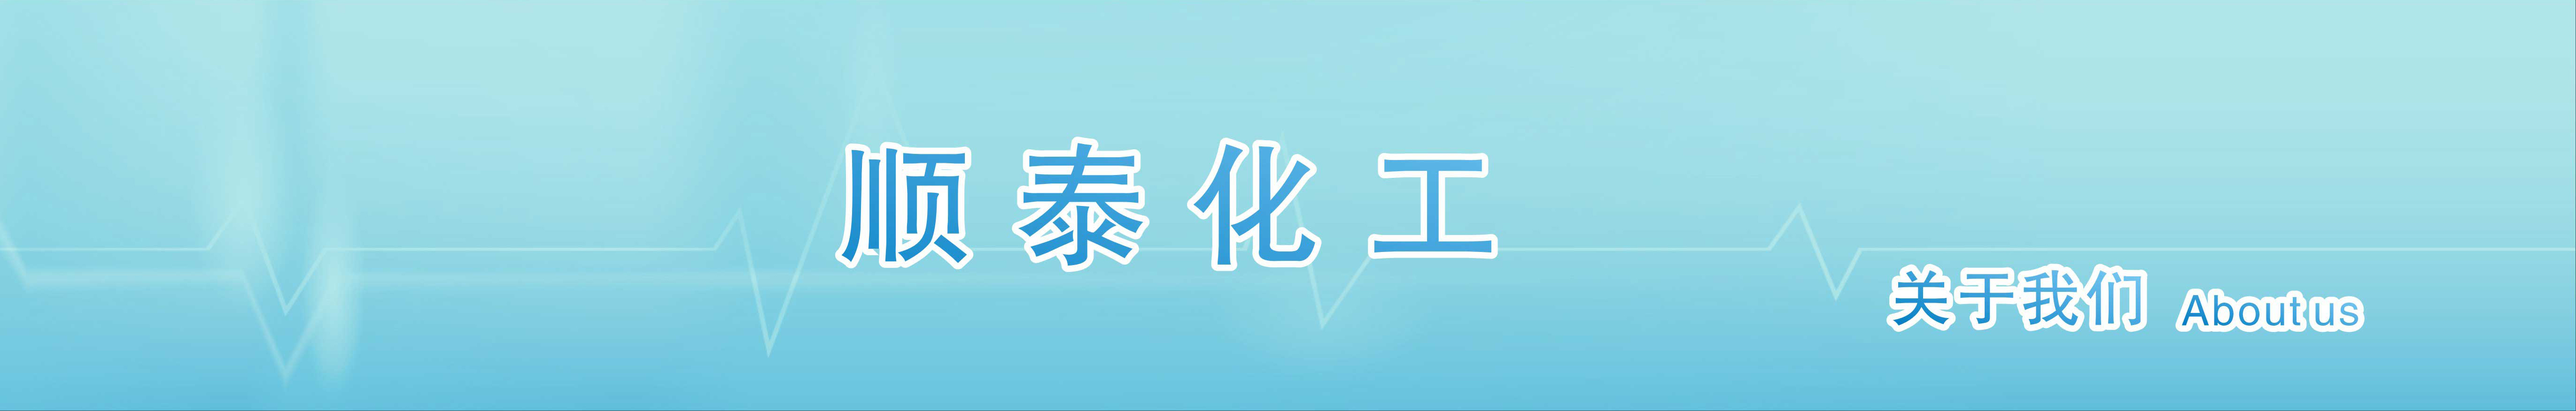
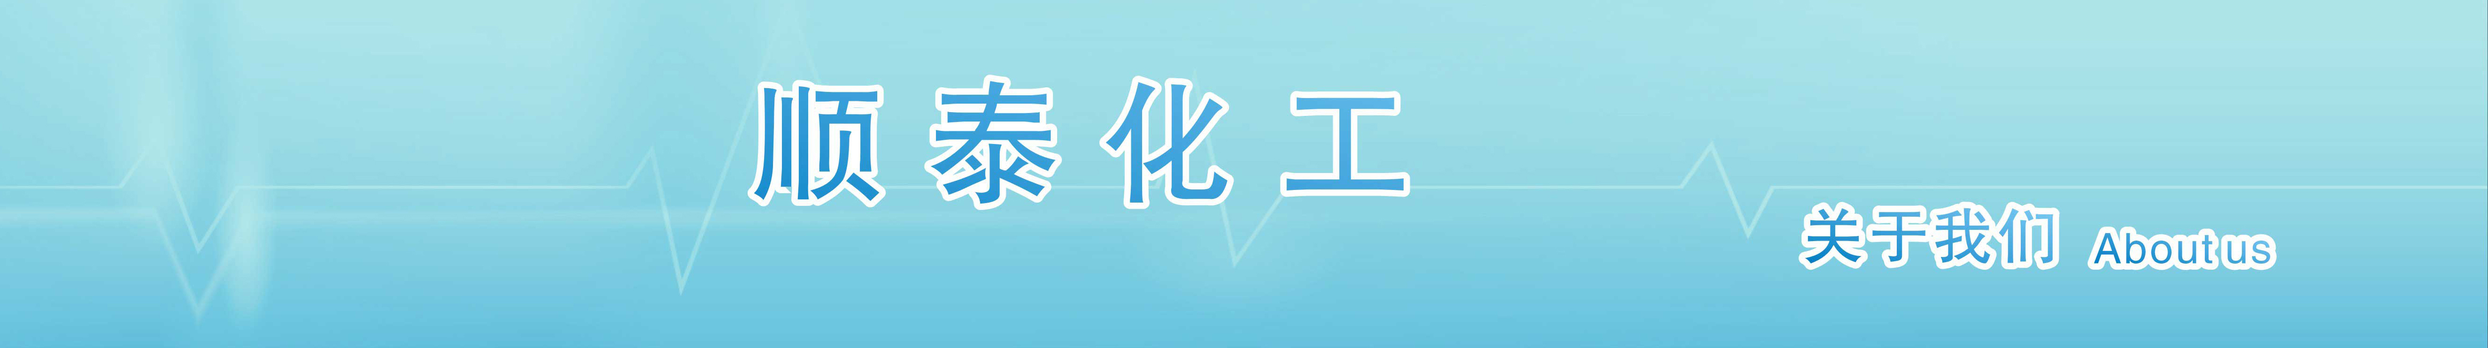
修改页面标题

diff --git a/resources/views/products.blade.php b/resources/views/products.blade.php
@@ -1,5 +1,5 @@
 @extends('layout.master')
-@section('title', '温州顺泰化工|产品中心')
+@section('title', '温州市顺泰化工有限公司|产品中心')
 
 @section('header-tab')
     @include('components.headerTab',['lang'=>$data['lang']])
@@ -138,11 +138,11 @@
             height: 52px;
         }
         .about_banner{
-            background:url({{asset('images/head1.jpg')}})no-repeat center top;
+            background:url({{asset('images/head11.jpg')}})no-repeat center top;
             background-size:cover;
-            -webkit-background-size:cover;
-            -moz-background-size:cover;
-            -o-background-size:cover;
+            /*-webkit-background-size:cover;*/
+            /*-moz-background-size:cover;*/
+            /*-o-background-size:cover;*/
         }
     </style>
 @endsection

diff --git a/resources/views/advantage.blade.php b/resources/views/advantage.blade.php
@@ -1,5 +1,5 @@
 @extends('layout.master')
-@section('title', '温州顺泰化工|优势产品介绍')
+@section('title', '温州市顺泰化工有限公司|优势产品介绍')
 
 @section('header-tab')
     @include('components.headerTab',['lang'=>$data['lang']])

diff --git a/resources/views/about.blade.php b/resources/views/about.blade.php
@@ -1,5 +1,5 @@
 @extends('layout.master')
-@section('title', '温州顺泰化工|关于我们')
+@section('title', '温州市顺泰化工有限公司|关于我们')
 
 @section('header-tab')
     @include('components.headerTab',['lang'=>$data['lang']])

diff --git a/resources/views/contact.blade.php b/resources/views/contact.blade.php
@@ -1,5 +1,5 @@
 @extends('layout.master')
-@section('title', '温州顺泰化工|联系我们')
+@section('title', '温州市顺泰化工有限公司|联系我们')
 
 @section('header-tab')
     @include('components.headerTab',['lang'=>$data['lang']])

diff --git a/resources/views/copy.blade.php b/resources/views/copy.blade.php
@@ -1,5 +1,5 @@
 @extends('layout.master')
-@section('title', '温州顺泰化工|关于我们')
+@section('title', '温州市顺泰化工有限公司|关于我们')
 
 @section('header-tab')
     @include('components.headerTab',['lang'=>$data['lang']])

diff --git a/resources/views/marketing.blade.php b/resources/views/marketing.blade.php
@@ -1,5 +1,5 @@
 @extends('layout.master')
-@section('title', '温州顺泰化工|营销网络')
+@section('title', '温州市顺泰化工有限公司|营销网络')
 
 @section('header-tab')
     @include('components.headerTab',['lang'=>$data['lang']])

diff --git a/resources/views/news.blade.php b/resources/views/news.blade.php
@@ -1,5 +1,5 @@
 @extends('layout.master')
-@section('title', '温州顺泰化工|新闻动态')
+@section('title', '温州市顺泰化工有限公司|新闻动态')
 
 @section('header-tab')
     @include('components.headerTab',['lang'=>$data['lang']])

diff --git a/resources/views/newsdetail.blade.php b/resources/views/newsdetail.blade.php
@@ -1,5 +1,5 @@
 @extends('layout.master')
-@section('title', '新闻详情|温州顺泰化工')
+@section('title', '新闻详情|温州市顺泰化工有限公司')
 
 @section('header-tab')
     @include('components.headerTab',['lang'=>$data['lang']])

diff --git a/resources/views/index.blade.php b/resources/views/index.blade.php
@@ -1,5 +1,5 @@
 @extends('layout.master')
-@section('title', '温州顺泰化工|首页')
+@section('title', '温州市顺泰化工有限公司|首页')
 
 @section('header-tab')
     @include('components.headerTab',['lang'=>$data['lang']])
